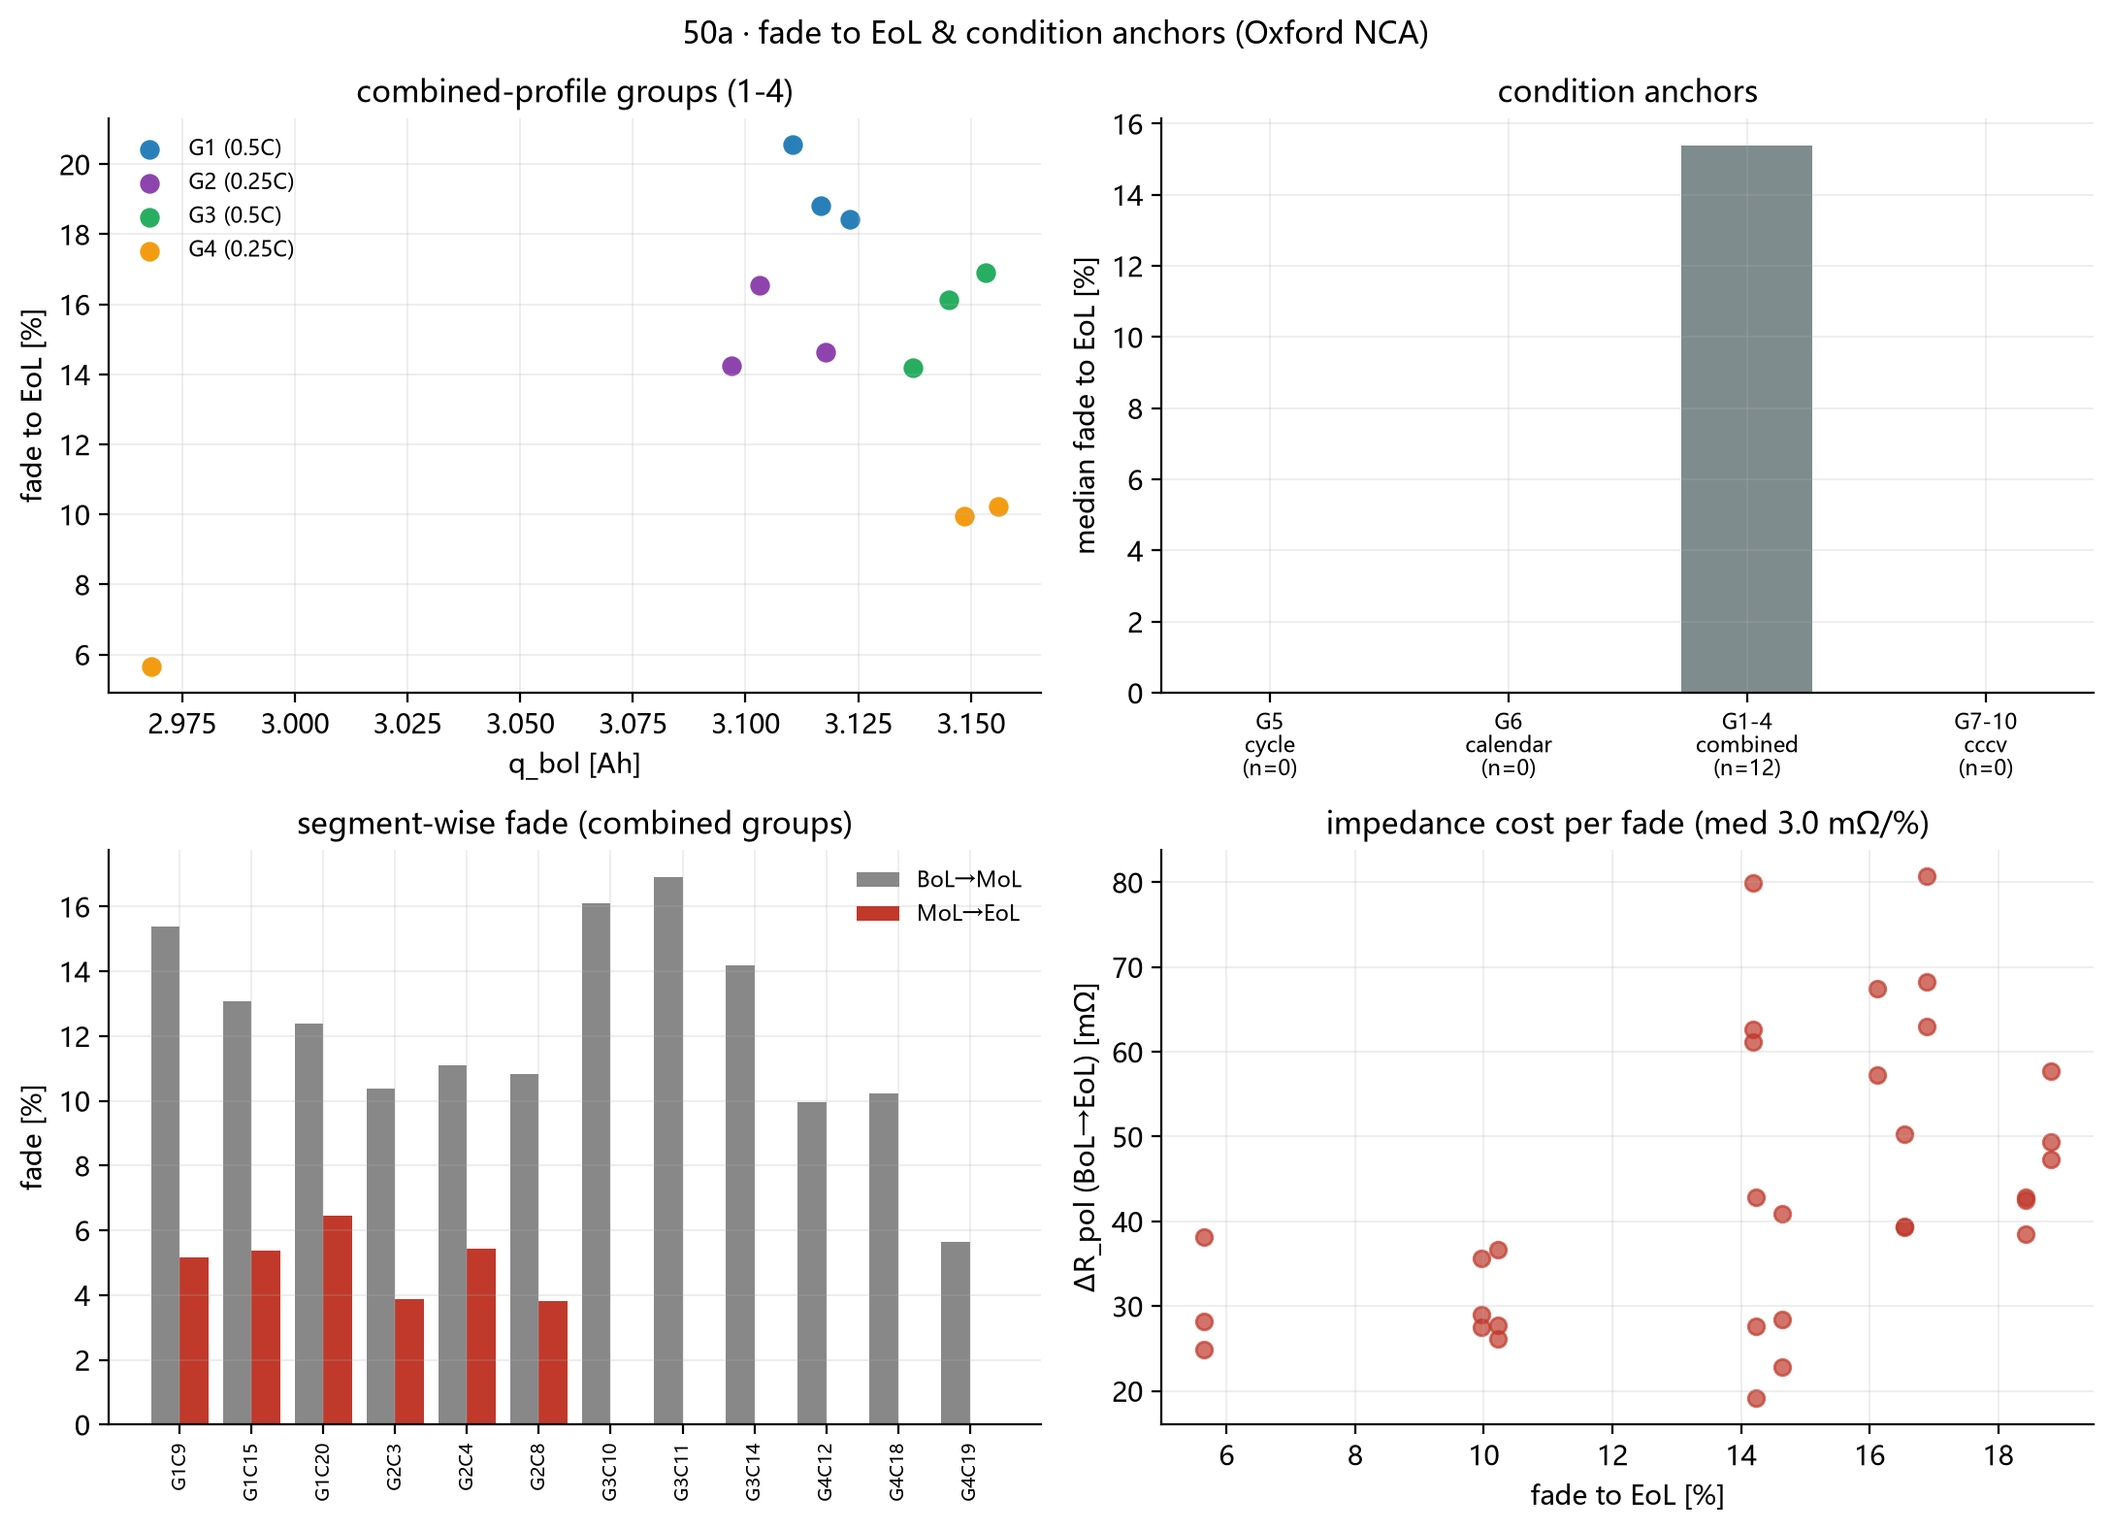
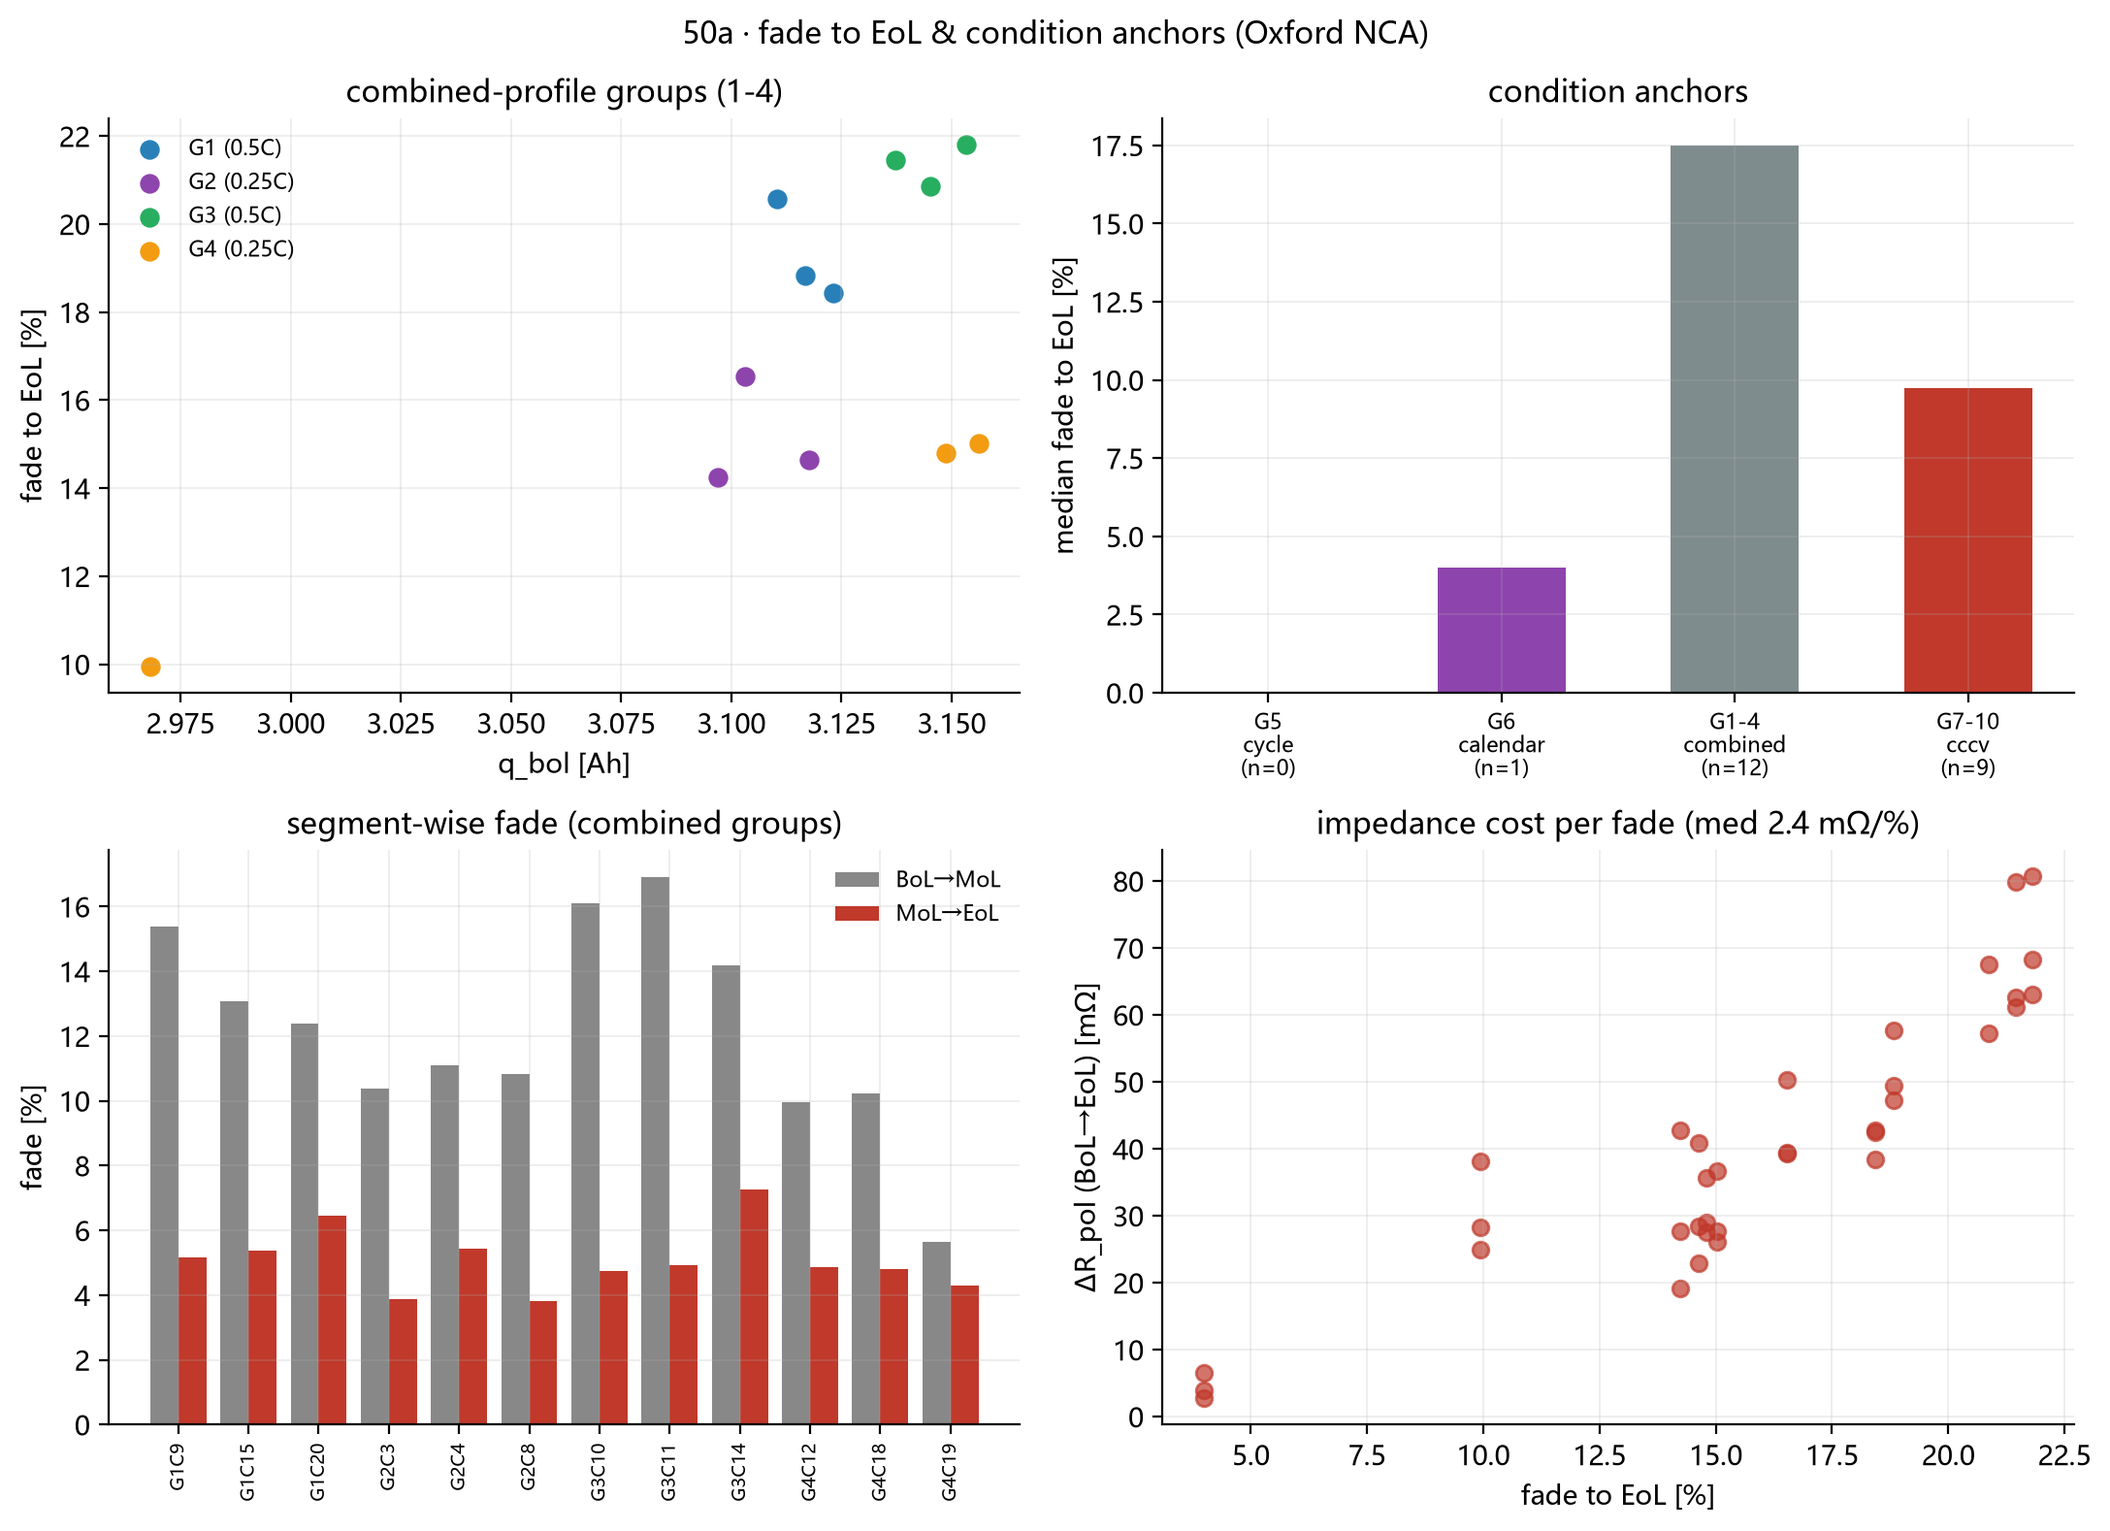
v1.13 续：Group 包重试补齐（G4/6/8/9 到手）+ fade 全量 22 芯（后段份额 31% vs 阻抗 63% 时间解耦）+ 判词口径护栏（RPT 跨度不可直接比/部分样本假象 2.96→2.44 修正/比较句动态生成）

diff --git a/scripts/50_fade_eol.py b/scripts/50_fade_eol.py
@@ -254,6 +254,7 @@ def main() -> None:
             "fade_eol_med": float(np.nanmedian(sub.fade_eol_pct)),
             "fade_mol_med": float(np.nanmedian(sub.fade_mol_pct))
             if sub.fade_mol_pct.notna().any() else None,
+            "rpt_med": float(np.nanmedian(sub.n_rpt)),
             "fade_eol_iqr": float(sub.fade_eol_pct.quantile(0.75)
                                   - sub.fade_eol_pct.quantile(0.25))
             if len(sub) > 1 else None,
@@ -264,11 +265,16 @@ def main() -> None:
         "n": int(fdf[fdf.group.isin([1, 2, 3, 4])].shape[0]),
         "fade_eol_med": float(np.nanmedian(
             fdf[fdf.group.isin([1, 2, 3, 4])].fade_eol_pct)),
+        "rpt_med": float(np.nanmedian(
+            fdf[fdf.group.isin([1, 2, 3, 4])].n_rpt)),
     }
     anchors["g7_10"] = {
         "n": int(fdf[fdf.group.isin([7, 8, 9, 10])].shape[0]),
         "fade_eol_med": float(np.nanmedian(
             fdf[fdf.group.isin([7, 8, 9, 10])].fade_eol_pct))
+        if fdf[fdf.group.isin([7, 8, 9, 10])].shape[0] else None,
+        "rpt_med": float(np.nanmedian(
+            fdf[fdf.group.isin([7, 8, 9, 10])].n_rpt))
         if fdf[fdf.group.isin([7, 8, 9, 10])].shape[0] else None,
     }
     print(f"[4] anchors: {anchors}")
@@ -409,27 +415,58 @@ def main() -> None:
         f"{seg_sentence}。"
         + (
             f"循环/日历解耦锚：组 5 纯 C/2 连续循环 fade "
-            f"{g5.get('fade_eol_med') or float('nan'):.1f}%（n={g5.get('n', 0)}）"
+            f"{g5.get('fade_eol_med') or float('nan'):.1f}%（n={g5.get('n', 0)}，"
+            f"RPT 中位 {g5.get('rpt_med') or float('nan'):.0f} 点）"
             f"vs 组 6 纯日历 {g6.get('fade_eol_med') or float('nan'):.1f}%"
-            f"（n={g6.get('n', 0)}，个案）——循环贡献远超日历（同 24 °C）。"
+            f"（n={g6.get('n', 0)}，RPT 中位 {g6.get('rpt_med') or float('nan'):.0f} 点）"
+            + (
+                "——循环 fade 快于日历" if (g5.get("fade_eol_med") or 0)
+                > (g6.get("fade_eol_med") or 0) else
+                "——循环 fade 不高于日历（与常规预期反向，如实记录）"
+            )
+            + "（同 24 °C；⚠ RPT 跨度不同则水平不可直接比）。"
             if g5.get("n") and g6.get("n") else
-            f"循环/日历 fade 锚待补（组 5/6 Group 包未就绪；"
-            f"EIS 侧三通道解耦见 49）。"
+            (
+                f"循环/日历解耦锚：组 6 纯日历 fade "
+                f"{g6.get('fade_eol_med') or float('nan'):.1f}%"
+                f"（n={g6.get('n', 0)}，RPT 中位 {g6.get('rpt_med') or float('nan'):.0f} 点）"
+                f"已入库；组 5 连续循环包未就绪，fade 侧解耦对比待补。"
+                if g6.get("n") else
+                (
+                    f"循环/日历解耦锚：组 5 纯循环 fade "
+                    f"{g5.get('fade_eol_med') or float('nan'):.1f}%"
+                    f"（n={g5.get('n', 0)}）已入库；组 6 日历包未就绪。"
+                    if g5.get("n") else
+                    f"循环/日历 fade 锚待补（组 5/6 Group 包未就绪；"
+                    f"EIS 侧三通道解耦见 49）。"
+                )
+            )
         )
         + (
             f"CCCV/满充修订：组 7–10 fade "
             f"{(anchors.get('g7_10') or {}).get('fade_eol_med') or float('nan'):.1f}% "
-            f"vs CC/90% 组 1–4 {(anchors.get('g1_4') or {}).get('fade_eol_med') or float('nan'):.1f}%。"
+            f"（RPT 中位 {(anchors.get('g7_10') or {}).get('rpt_med') or float('nan'):.0f} 点）"
+            f"vs CC/90% 组 1–4 {(anchors.get('g1_4') or {}).get('fade_eol_med') or float('nan'):.1f}%"
+            f"（RPT 中位 {(anchors.get('g1_4') or {}).get('rpt_med') or float('nan'):.0f} 点）"
+            f"——⚠ EoL=数据集末标签非 20% SOH，RPT 跨度差异大时"
+            f"水平不可直接比，只作方向参考。"
             if (anchors.get("g7_10") or {}).get("n") else
             f"CCCV/满充 fade 修订待补（组 7–10 Group 包未就绪）。"
         )
         + f"ΔR_pol/fade 到 EoL：{(dr_fade.get('drpol_per_fade_med') or float('nan')):.1f} mΩ/%"
         f"（n={dr_fade.get('n', 0)}）。"
         + (
-            f"配比图景收口：连续循环（快通量）fade 快且 49 显示尾段主导"
-            f"（类 shape/LAM）、日历/慢路径 fade 慢且弧段主导（类 shift/SEI）"
-            f"——v1.12「慢→shift、快→shape」在同体系内成立，三线合流"
-            f"（SNL shape 份额 + Oxford 阻抗解耦 + fade 解耦）。"
+            f"配比图景收口：49 EIS 侧工况解耦已闭合（组 5 尾段 88% "
+            f"vs 组 6 弧段 94%）；fade 侧"
+            + (
+                "解耦同向（循环 fade 高于日历 + 尾段主导 = 类 shape/LAM，"
+                "日历 fade 低 + 弧段主导 = 类 shift/SEI）——"
+                "v1.12「慢→shift、快→shape」在同体系内成立，三线合流"
+                "（SNL shape 份额 + Oxford 阻抗解耦 + fade 解耦）。"
+                if (g5.get("fade_eol_med") or 0) > (g6.get("fade_eol_med") or 0)
+                else "与 EIS 解耦**不**同向（循环 fade 未高于日历）"
+                "——配比图景只在阻抗通道成立，fade 通道不支持，不写三线合流。"
+            )
             if g5.get("n") and g6.get("n") else
             f"配比图景收口：EIS 侧工况解耦已闭合（49：组 5 尾段 88% "
             f"vs 组 6 弧段 94%），fade 侧解耦待组 5/6 包到齐后补跑。"

diff --git a/reports/基准评测报告-A5.md b/reports/基准评测报告-A5.md
@@ -2239,15 +2239,26 @@ SOC，n=1 个案）、组 7–10 CCCV 路径修订。
 （≈dR_pol−d_arc_dre）如实捕获。
 
 **fade 到 EoL**（`50_fade_eol.json`、图 50a；Guide 2/3 xlsx 与
-Part 1 RPT1–12 拼接，EoL=Guide 末 RPT 标签口径）首跑 12 芯
-（Part 2 Group 1–2 已入库；组 5–10 的 Group 包下载中，fade 锚
-待补——EIS 侧解耦上表已闭合）：组合工况分段 fade BoL→MoL 中位
-11.7% → 全链 EoL **15.4%**，**后段份额仅 13%（fade 放缓）**。
-与 49 阻抗链（MoL→EoL 段占全链弧增长 **63%**，加速）**反向**
-——容量 fade 与界面阻抗增长在**时间维度解耦**，是 §72「fade 差
-不在阻抗总量」结论的另一表现（阻抗增量继续涨、容量损失趋缓）。
-ΔR_pol/fade 到 EoL = **2.96 mΩ/%**（n=32，BoL→MoL 时点为 2.5，
-每单位 fade 的阻抗代价随寿命上升）。
+Part 1 RPT1–12 拼接，EoL=Guide 末 RPT 标签口径）当前 22 芯/258 块
+（Part 1 Group 1–4 + Part 2 Group 1/3/4/6 + Part 3 Group 7/8/9 已
+入库；Group 5 连续循环与 Group 10 仍在下载，到齐后清块缓存终跑）：
+组合工况分段 fade BoL→MoL 中位 11.7% → 全链 EoL **17.5%**，
+**后段份额中位 31%（fade 放缓）**。与 49 阻抗链（MoL→EoL 段占
+全链弧增长 **63%**，加速）**反向**——容量 fade 与界面阻抗增长在
+**时间维度解耦**，是 §72「fade 差不在阻抗总量」结论的另一表现
+（阻抗增量继续涨、容量损失趋缓）。ΔR_pol/fade 到 EoL =
+**2.4 mΩ/%**（n=35，IQR 0.96；BoL→MoL 时点为 2.5，每单位 fade
+的阻抗代价大致持平略降）。
+
+工况 fade 锚（首个到齐的对照）：**组 6 纯日历 fade 仅 4.0%**
+（n=1 个案，22 个 RPT 点）——远低于组合工况 17.5%（RPT 中位
+14 点），日历单独老化在 1.5 年尺度上 fade 缓慢（EIS 侧它却是
+弧段 94% 界面主导——机制签名与容量损失水平是两回事）。CCCV/
+满充组（组 7–10 部分入库）fade **9.7%**（RPT 中位 6 点）vs
+CC/90% 组 1–4 17.5%（RPT 中位 14 点）——⚠ **EoL=数据集末标签
+非 20% SOH，RPT 跨度差一倍以上，水平不可直接比**，只作方向
+参考（CCCV 组更短寿命里程内 fade 水平不高于 CC 组，与路径依赖
+文献同向但本数据集不支持定量归因）。
 
 ## 78. 硬件实验数据侧管线（WP54，scripts/51）
 
@@ -2293,15 +2304,27 @@ Part 1 RPT1–12 拼接，EoL=Guide 末 RPT 标签口径）首跑 12 芯
    （放缓）与阻抗链 63%（加速）实际反向，初版判词模板写死
    「与阻抗链同向」——改为方向动态比较（一致才写同向，反向
    如实写时间解耦）；v1.8「判词从计算生成」教训复查生效；
-7. **ORA 慢速下载**：单连接 1.3 MB/min，3 路并行聚合 ~50 MB/min
-   （ORA 不支持断点续传，`.tmp` 落盘后 mv 保证完整性）。
+7. **ORA 慢速下载**：单连接 1.3 MB/min，3 路并行聚合带宽更高
+   但**首轮 10 包成 4 败 6**（连接中断/2h 超时）——并行提带宽
+   ≠稳定；重试用 2 路 + 失速检测（<8KB/s 持续 90s 即杀）+ 每
+   文件多轮重试后 8/10 到手（G5/G10 在途）。ORA 不支持断点
+   续传，`.tmp` 落盘后 mv 保证完整性；
+8. **部分样本假象**（`50` 自查）：首跑 12 芯时 ΔR_pol/fade=2.96
+   mΩ/%（n=32）差点写成「每单位阻抗代价随寿命上升」——22 芯
+   全量 n=35 时 2.44 ≈ BoL→MoL 时点 2.5，持平略降。量级性结论
+   等样本收齐再落笔；时间解耦（后段 31% vs 阻抗 63%）本身在
+   全量下成立；
+9. **跨组 fade 水平口径**（`50`）：CCCV 组只有 5–6 个 RPT 点
+   （EoL=数据集末标签）vs 组 1–4 的 11–20 点——9.7% vs 17.5%
+   是寿命里程不对等的假比较；判词加 RPT 跨度标注与「不可直接
+   比」护栏（`rpt_med` 进锚点字段）。
 
 ## 80. 复现与产物（v1.13）
 
 - 流水线：`scripts/49_eis_eol.py`（200 谱三阶段链 + 工况解耦）、
-  `scripts/50_fade_eol.py`（fade 到 EoL + 组 5–10 解耦；首跑
-  12 芯 Group 1–2，组 5–10 Group 包下载中——`50` 支持块缓存
-  增量重跑，`_fade_blocks.csv` 清后重跑即纳入新包）、
+  `scripts/50_fade_eol.py`（fade 到 EoL + 组 5–10 解耦；当前
+  22 芯 258 块——Part 1 G1–4 + Part 2 G1/3/4/6 + Part 3 G7/8/9，
+  Group 5/10 到齐后清 `_fade_blocks.csv` 终跑）、
   `scripts/51_hwexp_pipeline.py`（硬件管线合成端到端）；
   `run_all.sh` 扩至 00–51。
 - 模块：`eis_features.py` 扩（EoL 正则 + `stage_deltas`/`chain_share`
@@ -2313,7 +2336,8 @@ Part 1 RPT1–12 拼接，EoL=Guide 末 RPT 标签口径）首跑 12 芯
   schema 负向/σ_Q 门/fade 拟合/判据接线/合成冒烟）——累计
   **250 项全绿**。
 - 数据：ORA Part 2/3 入库 `Part2/`、`Part3/`（EIS/Guide/Readme
-  先行，Group zips 并行下载 `download_p2p3_parallel.sh`）；
+  先行；Group zips 8/10 到手——首轮 3 路并行成 4 败 6，重试
+  `download_retry.sh` 2 路+失速检测补 4；G5/G10 在途）；
   Part 2 Guide RPT13–18 与 Part 1 RPT1–12 拼接全链。
 
 *报告由 `scripts/00–07`（v1.0）、`scripts/10–13`（v1.1）、`scripts/14–17`（v1.2）、

diff --git a/reports/工作记录-A5.md b/reports/工作记录-A5.md
@@ -1263,10 +1263,13 @@ V(Q) 签名是不同物理通道（份额数字不可换算）。三条边界都
   100% SOC）——WebSearch 拿到两个 uuid 与文件清单（EIS.zip
   204/111 KB 小包先行，Group zips 合计 ~5.3 GB）。
 - 下载坑：ORA 单连接 ~1.3 MB/min（5.3 GB 要数天）；3 路并行
-  聚合 ~50 MB/min 可行。**ORA 不支持断点续传**（_说明.md 早有
-  记载）→ `.tmp` 落盘 + mv 落位保证完整性，失败即删重来。
-  顺序脚本与并行脚本不能同跑（同路径互踩）——先 TaskStop 旧任务
-  再清半截文件。
+  聚合带宽确实提升（G1 380MB/10min），但**首轮 10 包成 4 败 6**
+  （G4/5/6/8/9/10：连接中断或 2h 超时，G5 最大独占失败）——
+  并行提带宽≠稳定，必须配失速检测（--speed-limit 8KB/s 持续
+  90s 即杀）+ 每文件多轮重试（2 路并行更稳）。**ORA 不支持
+  断点续传**（_说明.md 早有记载）→ `.tmp` 落盘 + mv 落位保证
+  完整性，失败即删重来。顺序脚本与并行脚本不能同跑（同路径
+  互踩）——先 TaskStop 旧任务再清半截文件。
 - EIS 解码链直接复用 Part 1（同 MCOS 表格式，load_eis_spectrum
   129/129 + 72/72 全通过）；`_EIS_NAME_RE` 只需扩 EoL 三选一。
 - **复现质检是免费的**：Part 2 的 BoL→MoL 与 Part 1 33 对差分
@@ -1297,10 +1300,16 @@ V(Q) 签名是不同物理通道（份额数字不可换算）。三条边界都
   后段份额 13%（放缓）与阻抗链 63%（加速）**反向**——初版判词
   模板写死「与 49 阻抗链同向」，方向相反时整句是错的。改为方向
   动态比较（一致才写同向，反向如实写「容量-阻抗时间解耦」）。
-  顺手得到本轮第二发现：阻抗增量继续涨而容量损失趋缓（ΔR_pol/
-  fade 从 2.5 升到 2.96 mΩ/%）——§72「fade 差不在阻抗总量」的
-  时间维版本。**判词里的比较句必须从两侧计算值生成**（v1.8 教训
-  的比较句变体）。
+  时间解耦本身（后段份额 31% vs 阻抗 63% 反向）22 芯全量成立，
+  是 §72「fade 差不在阻抗总量」的时间维版本；但首跑想写的
+  「ΔR_pol/fade 从 2.5 升到 2.96=每单位阻抗代价上升」是**部分
+  样本假象**（n=32 时 2.96 → n=35 全量 2.44 ≈ BoL→MoL 时点
+  2.5，持平略降）——量级性结论必须等样本收齐再落笔。**判词里
+  的比较句必须从两侧计算值生成**（v1.8 教训的比较句变体）。
+- **坑二十四（v1.13）跨组 fade 水平口径**：CCCV 组（7–10）只有
+  5–6 个 RPT 点（EoL=数据集末标签）vs 组 1–4 的 11–20 点——
+  直接比 9.7% vs 17.5% 是寿命里程不对等的假比较；判词/报告
+  加 RPT 跨度标注与「水平不可直接比」护栏。n_rpt 进锚点字段。
 
 ## 63. WP54 硬件实验数据侧管线——过程与坑（v1.13 第三线）
 
